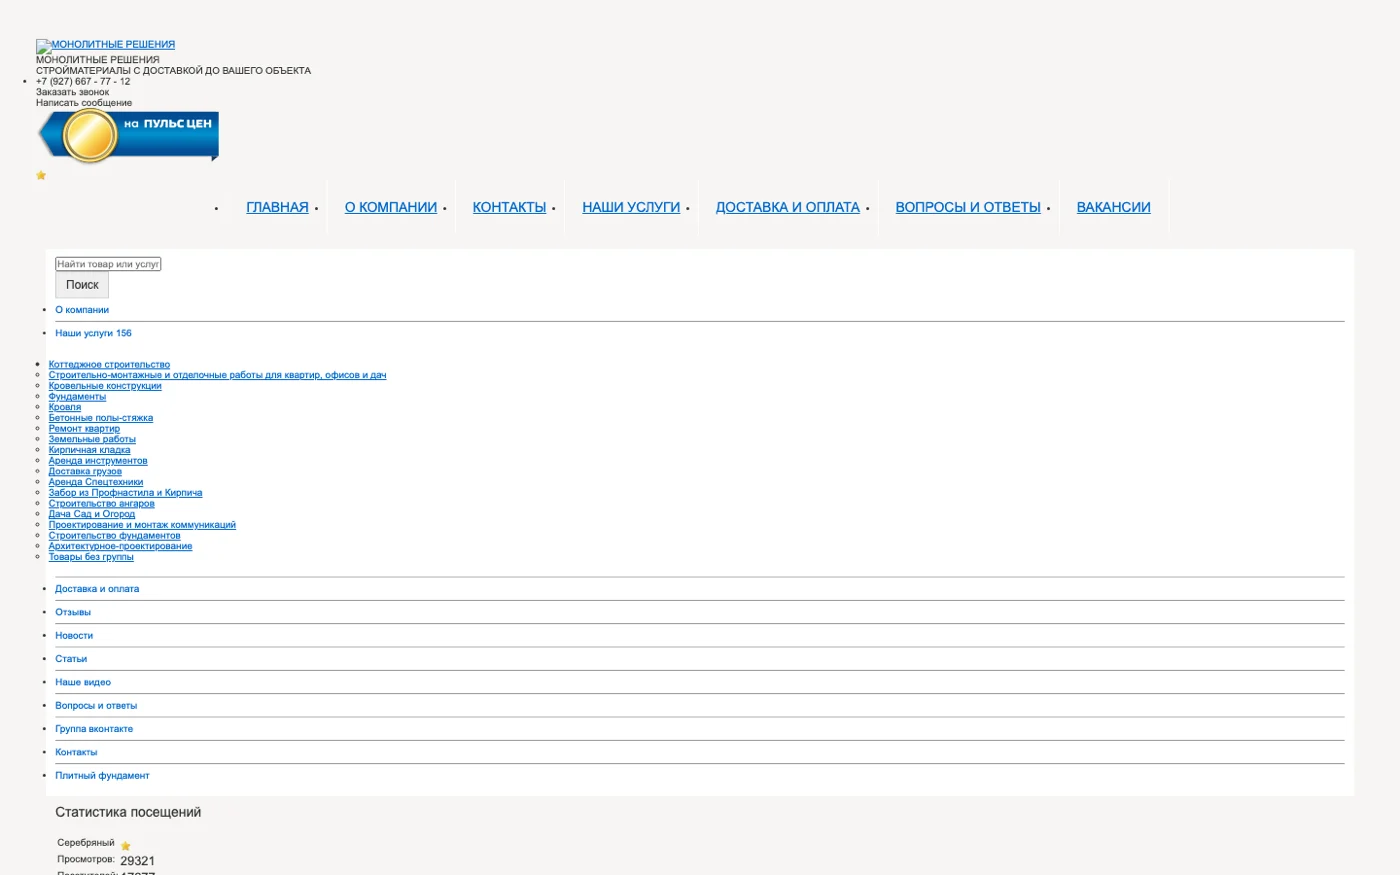
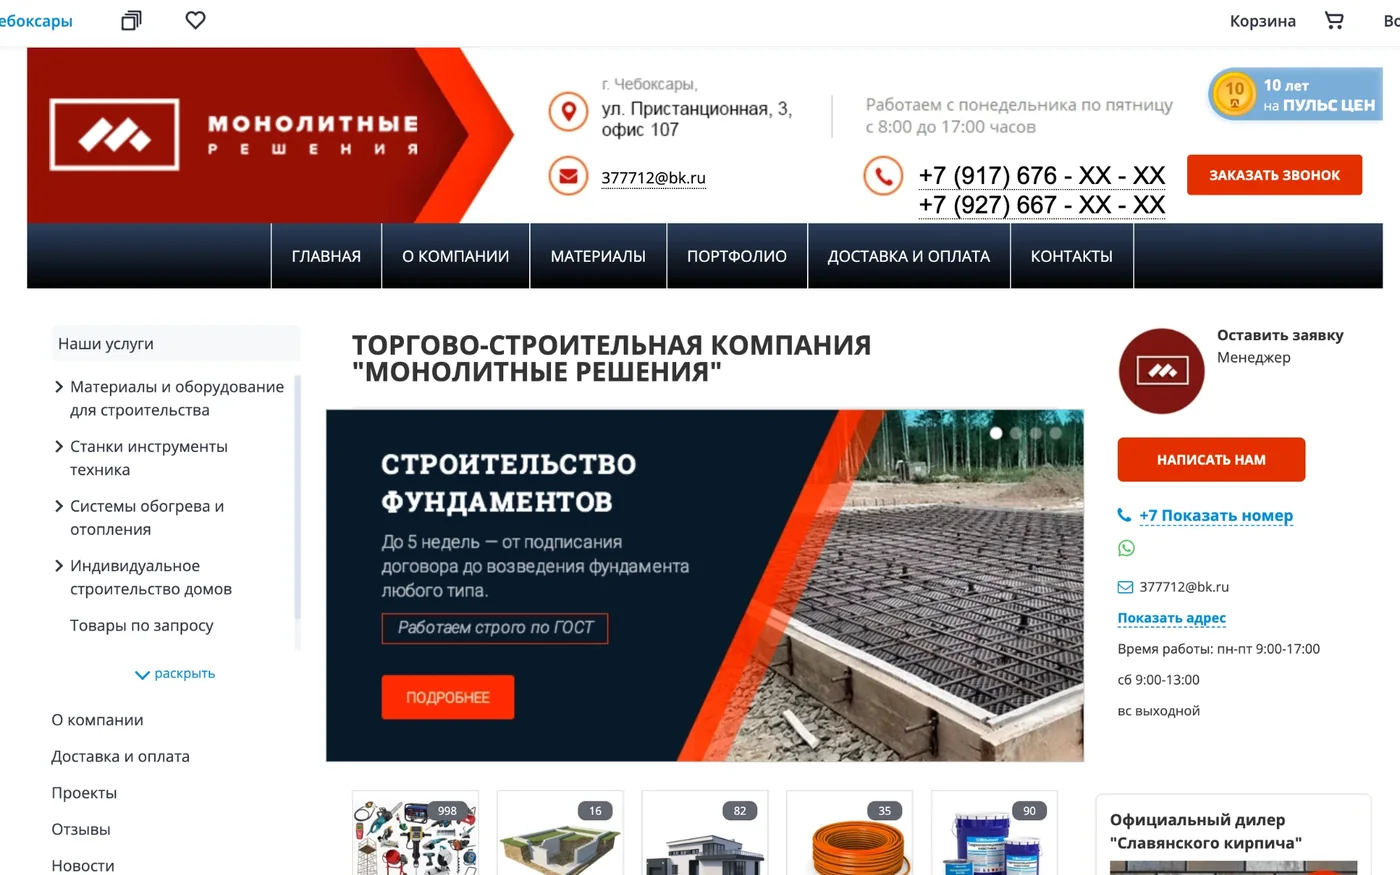
cases: Чебоксары «было» — актуальная витрина на Пульс цен вместо архивного снимка 2018

diff --git a/index.html b/index.html
@@ -245,7 +245,7 @@
               </div>
               <div class="cs-media">
                 <div class="cs-pair cs-pair-v">
-                  <figure><p class="ba-k">Было <i>архивный снимок, 2018</i></p><img src="/assets/img/cases/monolith-before.webp" alt="Старый сайт на арендованной платформе" width="1400" height="875"></figure>
+                  <figure><p class="ba-k">Было <i>витрина на Пульс цен</i></p><img src="/assets/img/cases/monolith-before.webp" alt="Старая витрина на арендованной платформе Пульс цен" width="1400" height="875"></figure>
                   <figure class="is-acc"><p class="ba-k">Стало</p><img src="/assets/img/cases/monolith-after.webp" alt="Новый сайт: собственный каталог с ценами" width="1400" height="875"></figure>
                 </div>
               </div>

diff --git a/CLAUDE.md b/CLAUDE.md
@@ -53,7 +53,7 @@ betaline-ai-2/
 **Не трогать без разрешения оператора:**
 - `api/_lib/sheets.js`, схема колонок «Лиды» A–K — на неё завязаны отчёты
 - Цены (0 ₽ аудит, от 150 000 / 600 000 / 700 000 / 800 000 / 1 000 000 ₽ — из макета), цифры hero-статистики (15+ / 4 / 40+ / 5) и кейсов — только оператор
-- **Кейсы (переписаны 15.09, источники проверены):** Ташкент — «18 из 20» из `mpoto/pcmarket-ai-seller/docs/client/analiz-obrashcheniy-2026-07-31.html`, «11 из 19 вне графика» — снято с боевой операторской консоли `agata.46-8-225-223.sslip.io/admin` 11.09; Чебоксары — цены студий из `clients/Fundament21/smeta-rynok-fundament21.html` (с источниками), «было» — Wayback 2018 (подписано датой); салон красоты и eBay — дословно с боевого betaline-ai.ru. 🔴 Не сравнивать подписку 8 900 ₽/мес с Пульс Цен 73 500 ₽/год — оператор объяснил 11.09: Пульс Цен был только размещением, подписка — заказываемая работа, сайт остаётся клиенту при отказе. Скриншоты — `assets/img/cases/`
+- **Кейсы (переписаны 15.09, источники проверены):** Ташкент — «18 из 20» из `mpoto/pcmarket-ai-seller/docs/client/analiz-obrashcheniy-2026-07-31.html`, «11 из 19 вне графика» — снято с боевой операторской консоли `agata.46-8-225-223.sslip.io/admin` 11.09; Чебоксары — цены студий из `clients/Fundament21/smeta-rynok-fundament21.html` (с источниками), «было» — скриншот текущей витрины на Пульс цен от оператора (16.09; прежде стоял Wayback 2018); салон красоты и eBay — дословно с боевого betaline-ai.ru. 🔴 Не сравнивать подписку 8 900 ₽/мес с Пульс Цен 73 500 ₽/год — оператор объяснил 11.09: Пульс Цен был только размещением, подписка — заказываемая работа, сайт остаётся клиенту при отказе. Скриншоты — `assets/img/cases/`
 - id счётчика Метрики и имена целей — не переименовывать, рвётся история
 
 ## 5. Commands
